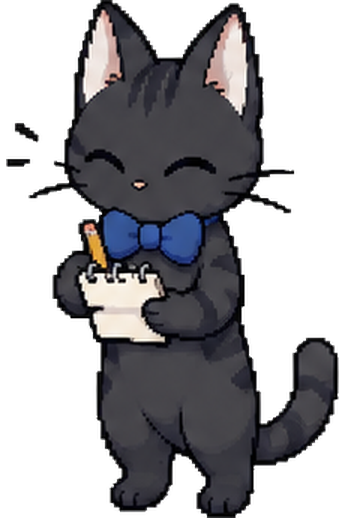
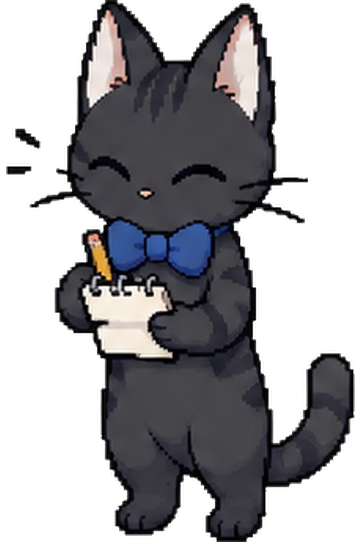
Pozlar arası boyut sıçraması: ölçek kafa genişliğine göre
kiri/tori durum değiştirince farklı boyutta görünüyordu. Ölçek, fiyonk (kiri) / burun
(tori) alanına göre sayfa başına eşitleniyordu; sanatçı bu detayları her sayfada farklı
oranda çizdiği için pozlar bekleme pozuna göre %15'e kadar büyük ya da küçük çıkıyordu
(en çok sürükleme: kafa %12 küçük).

Artık her durum, ön cephe karelerinin kafa genişliğini (bıyık/kuyruk/kalem gibi ince
çizgiler morfolojik açmayla atılarak) bekleme pozunun kafa genişliğine eşitliyor; yan
görünümler aynı durumun ön cephe ölçeğini kullanıyor. Bekleme tuvali değişmedi, yani
piksel editörü çizimleri etkilenmez. Sonuç: tüm karelerde kafa genişliği ±%5 içinde.

diff --git a/renderer/pose-manifest.js b/renderer/pose-manifest.js
@@ -21,9 +21,9 @@ window.POSE_MANIFEST = {
   "states": {
    "move": {
     "frames": 6,
-    "cw": 400,
-    "ch": 644,
-    "ox": -49.7,
+    "cw": 444,
+    "ch": 716,
+    "ox": -71.7,
     "oy": 0.0,
     "groups": {
      "hang": [
@@ -40,24 +40,24 @@ window.POSE_MANIFEST = {
    },
    "working": {
     "frames": 4,
-    "cw": 354,
-    "ch": 556,
-    "ox": -24.6,
-    "oy": -111.0
+    "cw": 351,
+    "ch": 554,
+    "ox": -22.6,
+    "oy": -109.0
    },
    "listening": {
     "frames": 1,
-    "cw": 322,
-    "ch": 550,
-    "ox": -23.1,
-    "oy": -105.0
+    "cw": 342,
+    "ch": 585,
+    "ox": -34.6,
+    "oy": -140.0
    },
    "happy": {
     "frames": 1,
-    "cw": 345,
-    "ch": 524,
-    "ox": -32.3,
-    "oy": -79.0
+    "cw": 361,
+    "ch": 548,
+    "ox": -40.3,
+    "oy": -103.0
    }
   }
  },
@@ -80,9 +80,9 @@ window.POSE_MANIFEST = {
   "states": {
    "move": {
     "frames": 4,
-    "cw": 451,
-    "ch": 543,
-    "ox": -91.3,
+    "cw": 508,
+    "ch": 613,
+    "ox": -119.8,
     "oy": 0.0,
     "groups": {
      "hang": [
@@ -98,23 +98,23 @@ window.POSE_MANIFEST = {
    "working": {
     "frames": 4,
     "cw": 299,
-    "ch": 476,
+    "ch": 475,
     "ox": -13.1,
-    "oy": 21.0
+    "oy": 22.0
    },
    "listening": {
     "frames": 1,
-    "cw": 258,
-    "ch": 452,
-    "ox": -4.7,
-    "oy": 45.0
+    "cw": 267,
+    "ch": 467,
+    "ox": -9.6,
+    "oy": 30.0
    },
    "happy": {
     "frames": 1,
-    "cw": 316,
-    "ch": 464,
-    "ox": 7.2,
-    "oy": 33.0
+    "cw": 314,
+    "ch": 460,
+    "ox": 8.8,
+    "oy": 37.0
    }
   }
  }

diff --git a/scripts/build-pose-sheets.py b/scripts/build-pose-sheets.py
@@ -145,6 +145,23 @@ def feature_area(im, kind):
     return float(np.max(ndimage.sum(m, lab, range(1, n + 1))))
 
 
+def head_width(im, frac=0.42):
+    """Width of the head, which is what the eye reads as "size": the 95th
+    percentile row width in the top `frac` of the silhouette, after an opening
+    that strips whiskers, tail tips and pencil lines (thin strokes)."""
+    al = np.array(im)[..., 3] > 128
+    ys = np.nonzero(al.any(1))[0]
+    r = max(2, round((ys[-1] - ys[0]) * 0.014))
+    op = ndimage.binary_opening(al, structure=np.ones((2 * r + 1, 2 * r + 1)))
+    lab, n = ndimage.label(op)
+    if not n:
+        return 0.0
+    big = lab == (np.argmax(ndimage.sum(op, lab, range(1, n + 1))) + 1)
+    ys = np.nonzero(big.any(1))[0]
+    top, bot = ys[0], ys[-1]
+    return float(np.percentile(big[top:int(top + (bot - top) * frac)].sum(1), 95))
+
+
 def row_centroid_x(im, from_bottom, frac=0.05):
     """x centroid of the opaque pixels in the top/bottom `frac` of the art —
     the feet (standing) or the grab point (hanging)."""
@@ -226,10 +243,20 @@ def build_set(name, cfg):
 
     manifest = {"rev": ART_REV, "w": W, "h": H, "eyes": pupils(idle, load(cfg["eyes"]), box, idle_scale, (W, H)), "states": {}}
 
+    # Every state is scaled so its head is as wide as the idle head (on screen).
+    # The bow/nose ratio above is only a sheet-level first guess: the artist drew
+    # those features at different proportions per sheet, so states came out up
+    # to ~15% bigger or smaller than idle and visibly "jumped" on a state change.
+    # Side views read narrower, so a state uses its front-facing frames only
+    # (move: the "hang" group) and applies that scale to all its frames.
+    idle_head = head_width(idle.crop(box)) * idle_scale
     for state, st in cfg["states"].items():
         cells, ratio = sheets[st["sheet"]]
-        f = SHEET_UPSCALE * (ratio / sheets["work"][1])  # same body size as idle
         groups = st.get("groups") or {"all": st["cells"]}
+        front = groups.get("hang", next(iter(groups.values())))
+        heads = sorted(head_width(cells[k]) for k in front)
+        f = idle_head / heads[len(heads) // 2]
+        print(f"  {name}_{state}: head scale {f / (SHEET_UPSCALE * (ratio / sheets['work'][1])):.3f}x vs feature ratio")
         frames, group_idx = [], {}
         for gname, keys in groups.items():
             group_idx[gname] = list(range(len(frames), len(frames) + len(keys)))
